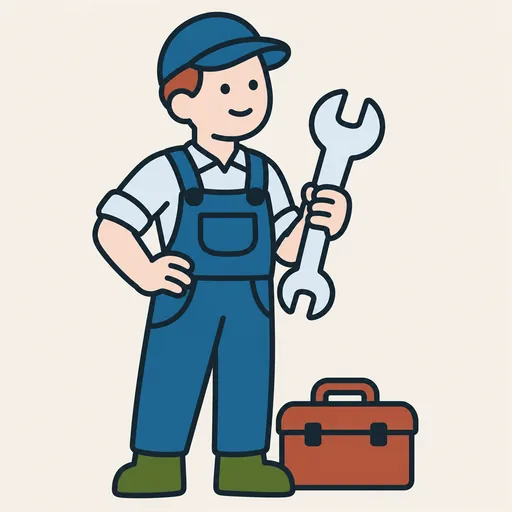
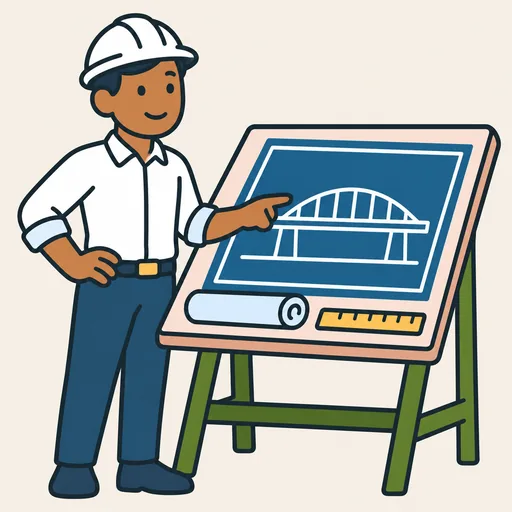
Pictures: the last four book words, and μηχανικός as an engineer
The vasilopita, the opal (on a jeweller's pad), the beam δοκάρι (a lone
timber) and the stepping stones, after two or three failed tries each, from
prompts that say what the picture must not look like, two variants each.
ο/η μηχανικός was a car mechanic; redrawn as an engineer. 955 pictures.

diff --git a/AGENTS.md b/AGENTS.md
@@ -41,7 +41,7 @@ What works now:
   - The chapter's `words` block places those words in its stage.
   - The home screen's first button is the one next action: read the current chapter, or today's session. Light, dark and system themes.
   - **The home screen** (2026-11-22): a Today card (the greeting, the one next action, the new words waiting, with their pictures) beside the current lesson (its ring and rope, its words with pictures, read and practise), then small tiles for the coach (the donkey), the coming dates and a short "would you pass today?"; the progress fold stays below. `/api/home` carries `words` (`session.home_words`).
-  - **Pictures** (phase 9, started 2026-11-22, `docs/brand/IMAGES.md`): words have pictures made by an image model through Codex, reviewed, and taken in as WebP into `content/open/open-pictures/` (`scripts/pictures.py`). A picture belongs to a word, so any pack's item with that word shows it: on the learn card, after an answer, and in "pick the picture" (`el_picture`). By 2026-11-24: 951 pictures, 102 for open words and 849 for nouns of the maintainer's book (the 2026-11-23 batches took the book's lessons 1–23 and the A1 words that open at lesson 3, then the windows of 2026-11-23 and 24 about 500 more of its nouns: about 1 in 20 was rejected and asked for once more; four words are still without one: the vasilopita, the opal, the beam δοκάρι and the stepping stone); 74 more of the book's words reuse a picture of the same thing spelled another way or named by another word (αβγό → αυγό, φρούτο → φρούτα, χαρτονόμισμα → μετρητά); 87 of the open book's 218 words and 1,011 of the book's words have one.
+  - **Pictures** (phase 9, started 2026-11-22, `docs/brand/IMAGES.md`): words have pictures made by an image model through Codex, reviewed, and taken in as WebP into `content/open/open-pictures/` (`scripts/pictures.py`). A picture belongs to a word, so any pack's item with that word shows it: on the learn card, after an answer, and in "pick the picture" (`el_picture`). By 2026-11-24: 955 pictures, 102 for open words and 853 for nouns of the maintainer's book (the 2026-11-23 batches took the book's lessons 1–23 and the A1 words that open at lesson 3, then the windows of 2026-11-23 and 24 about 500 more of its nouns: about 1 in 20 was rejected and asked for once more; the last four, the vasilopita, the opal, the beam δοκάρι and the stepping stone, came on 2026-11-24 from prompts that say what the picture must not look like, two variants each; the same day ο/η μηχανικός, drawn as a car mechanic, was redrawn as an engineer, its meaning in the book); 74 more of the book's words reuse a picture of the same thing spelled another way or named by another word (αβγό → αυγό, φρούτο → φρούτα, χαρτονόμισμα → μετρητά); 87 of the open book's 218 words and 1,015 of the book's words have one.
   - **Scenes of the story** (2026-11-22, `docs/brand/CHARACTERS.md`): the open book's recurring people (Zeynep, Katerina, Giorgos) have a fixed look and a reference sheet, and a scene picture can sit above a chapter's dialogue (`picture`) or a task (`stimulus.pictures`, one or two; two are labelled α and β, as in the A2 exam's "describe and compare two photos"). The pilot was the shopping chapter; now all 12 chapters of the open book have scenes (20 pictures in `content/open/open-book/pictures/`), each with one or two picture questions (true/false, multiple choice) and, where a chapter has two scenes, a two-picture speaking card (`a2ltr.speaking.pictures`; the B1 chapter's is a one-picture monologue, `b1keg.speaking.monologue`).
   - **The voice** (phase 10, 2026-11-22, `docs/VOICE.md`): every Greek text the app speaks is made ahead of time as a clip in `learner/voice/` by the first service in the learner's list (Azure Speech, edge-tts, Google Cloud TTS or OpenAI, with the learner's own keys in `learner/secrets.env`), each dialogue speaker in a voice of their kind; the browser voice reads what has no clip. `oknos voice status|build|sample`; the Voice screen (`?voice`, the speaker icon at the top) hears, compares and orders the services. The maintainer's order: Azure → edge (Athina, Nestoras) → Google.
   - **Shipped clips** (2026-11-22): the open content's 2,206 texts come with clips made by Google Chirp 3 HD (Kore, Orus) in `content/open-voice/` (tracked, CC BY-SA 4.0, about 16 MB in the repo; `scripts/ship_voice.py`, `index.json` lists each clip). The app plays the learner's own clip first, then the shipped one, then the browser voice, so a fresh clone sounds good with no key. `voice build` leaves shipped clips alone unless the learner's first service has other voices (Azure, edge, OpenAI). An open text with no shipped clip (or a clip no text uses) is a note from `oknos validate content/open`, not a failing test; the browser voice reads it until `scripts/ship_voice.py` is run with a Google key.

diff --git a/docs/brand/IMAGES.md b/docs/brand/IMAGES.md
@@ -52,7 +52,7 @@ The subject line says what it is and, where it matters, the Greek touch ("a roun
 
 1. **Requests.** A batch of about 24 words goes into a `requests.json` in a working folder under `.cache/oknos/` (never tracked): the word's item key, the Greek, the meaning and a `subject` line written for it. Words that need a person (verbs, jobs) follow the People rules above and are marked `"people": true`.
 2. **Generation.** Claude Code starts Codex headless with a short brief that points at this guide and the request file: `codex exec --cd <repo> --sandbox workspace-write "Follow the task in <brief>"`, in the background. Codex saves one PNG per request and marks it `generated`, with the prompt it used. A batch of 24 takes about 30 minutes; the pilot's 12 used about 7% of a ChatGPT Plus five-hour Codex limit. Batches can run one after another unattended (a small runner under `.cache/oknos/pictures/` that stops when Codex reports its usage limit); on 2026-11-22 one five-hour limit covered about 100 pictures, and on 2026-11-23 four batches and a retry (103 pictures) used about 62% of one five-hour limit and 9% of the weekly one. The image tool has a usage limit of its own, apart from the five-hour one: once it is reached, Codex still runs but makes no picture, and the error in its log gives the time that limit resets (`usage_limit_reached`, `resets_at`), so the runner waits for the later of the two resets. Codex may save a request file with a byte-order mark; read request files as `utf-8-sig` (`scripts/pictures.py` does). Codex can also run in a git worktree (`--cd <worktree> --add-dir <picture folder>`) while the requests and PNGs stay in the main checkout's `.cache/oknos/pictures/`.
-3. **Review.** Claude Code looks at every picture against this guide (text or letters, a person, wrong object, odd perspective, off-palette) and marks it `accepted` or `rejected` with the reason; the maintainer can overrule. Rejected ones go back with a corrected subject.
+3. **Review.** Claude Code looks at every picture against this guide (text or letters, a person, wrong object, odd perspective, off-palette) and marks it `accepted` or `rejected` with the reason; the maintainer can overrule. Rejected ones go back with a corrected subject. A word that fails twice gets a request with a `previous` field (what the earlier tries looked like) and a subject that names what the picture must not look like ("not a ring", "no white top, not cheese"), with a second subject (`subject_b`) for a different way to show it; Codex makes both and the better one is taken (2026-11-24: the vasilopita, the opal on a jeweller's pad, the lone beam and the stones across a river, all four after two or three earlier failures).
 4. **Taking them in.** `uv run --with pillow python scripts/pictures.py <requests.json>` makes a 512×512 WebP of every accepted picture in `content/open/open-pictures/pictures/` and records it (word, file, item, prompt) in `pictures.json`. About 15 KB each. A word that is the same thing spelled another way or in another number (το αβγό and το αυγό, το φρούτο and τα φρούτα) gets no new picture: its entry in `pictures.json` names the existing file, with `made` saying whose picture it is.
 
 ## In the app
